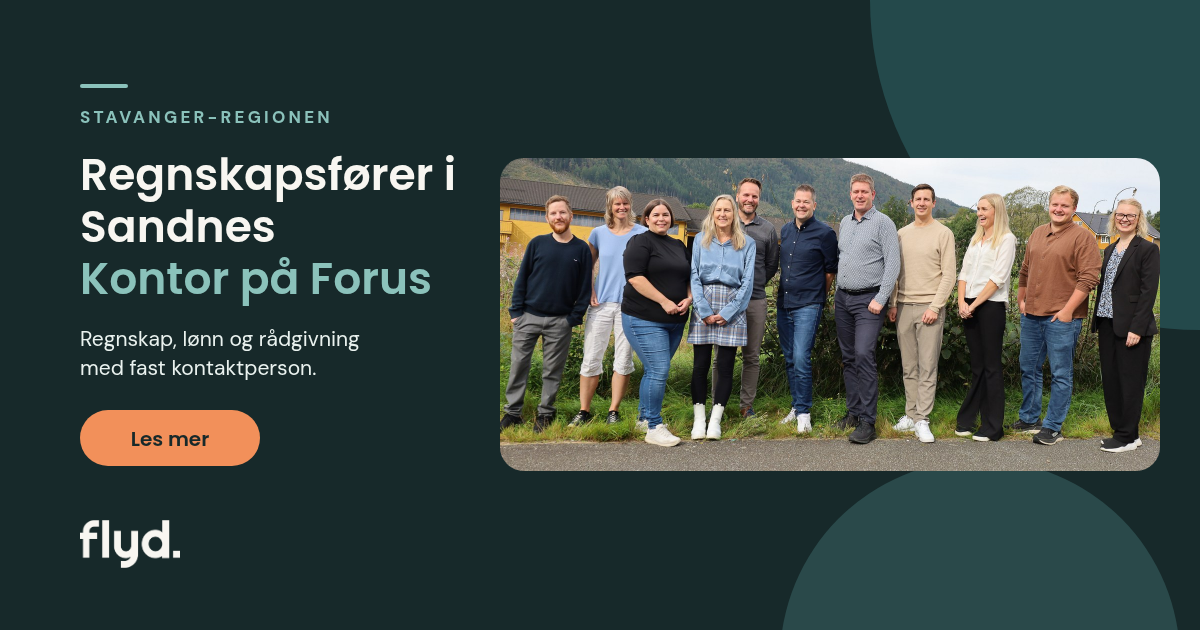
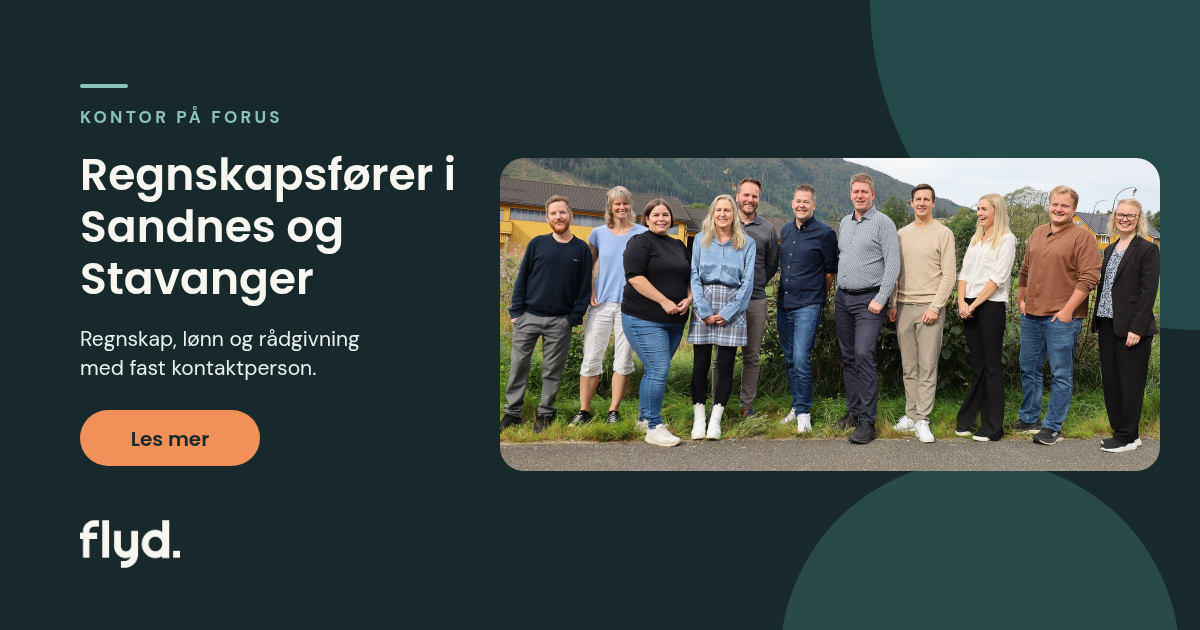
Kontorsiden på Forus: Sandnes og Stavanger i title, H1 og meta
Kontoret skal treffe søk på både Sandnes og Stavanger. Title er
«Regnskapsfører i Sandnes og Stavanger · Flyd», H1 «Regnskapsfører i
Sandnes og Stavanger», og meta description begynner med adressen på
Forus. Delingsbildet og lenketeksten fra /kontor/ er oppdatert.
URL-en /kontor/stavanger-sandnes/ beholdes uten 301. Etiketten og
footeren heter fortsatt Sandnes.

Changed region(s): [[0.0617, 0.3317, 0.37, 0.4825], [0.0617, 0.1508, 0.2775, 0.2111]]

diff --git a/data/kontorsider.ts b/data/kontorsider.ts
@@ -86,17 +86,19 @@ export type Kontorside = {
 
 export const kontorsider: Record<string, Kontorside> = {
   'stavanger-sandnes': {
-    title: 'Flyd Sandnes – autorisert regnskapsfører på Forus',
+    // Sandnes og Stavanger i title og H1: kontoret skal treffe søk på begge. URL-en
+    // /kontor/stavanger-sandnes/ beholdes (ingen 301).
+    title: 'Regnskapsfører i Sandnes og Stavanger · Flyd',
     description:
-      'Trenger du regnskapsfører i Sandnes? Flyd har kontor på Forus og betjener hele Stavanger-regionen. Regnskap, lønn, årsoppgjør og rådgivning – med fast kontaktperson.',
+      'Autorisert regnskapsfører på Forus, Grenseveien 21 i Sandnes, for bedrifter i Sandnes og Stavanger. Regnskap, lønn og årsoppgjør med fast kontaktperson.',
     image: {
       url: 'https://www.flyd.no/og/kontor-sandnes.png',
       width: 1200,
       height: 630,
       type: 'image/png',
-      alt: 'Regnskapsfører i Sandnes – kontor på Forus. Regnskap, lønn og rådgivning med fast kontaktperson fra Flyd',
+      alt: 'Regnskapsfører i Sandnes og Stavanger – kontor på Forus. Regnskap, lønn og rådgivning med fast kontaktperson fra Flyd',
     },
-    h1: 'Regnskapsfører i Sandnes.',
+    h1: 'Regnskapsfører i Sandnes og Stavanger',
     kicker: 'Kontor · Forus',
     ingress:
       'Flyd er regnskapsfører for bedrifter i Stavanger-regionen, med kontor i FOMO på Forus (Grenseveien 21). Vi tar oss av regnskap, lønn, årsoppgjør og rådgivning, og hjelper deg med å velge og sette opp riktig regnskapssystem. Du får én fast kontaktperson som kjenner bedriften din og svarer når du ringer.',

diff --git a/data/kontoroversikt.ts b/data/kontoroversikt.ts
@@ -22,7 +22,7 @@ export const kontorBlokker: Record<string, KontorBlokk> = {
     omrade: 'Stavanger, Sandnes, Sola, Randaberg og resten av Nord-Jæren',
     tekst:
       'Kontoret ligger i FOMO-bygget på Forus, på grensen mellom Stavanger og Sandnes, og er kontoret vårt for Stavanger-regionen. Herfra hjelper vi alt fra gründere til etablerte industri- og eiendomsselskaper.',
-    lenketekst: 'Les om regnskapsfører i Sandnes',
+    lenketekst: 'Les om regnskapsfører i Sandnes og Stavanger',
   },
   egersund: {
     omrade: 'Eigersund og resten av Dalane',
